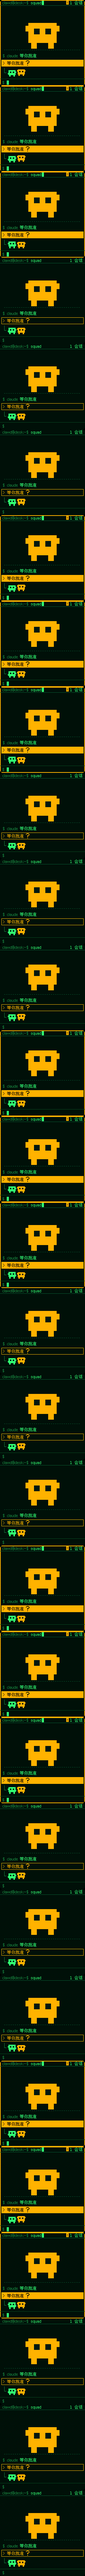
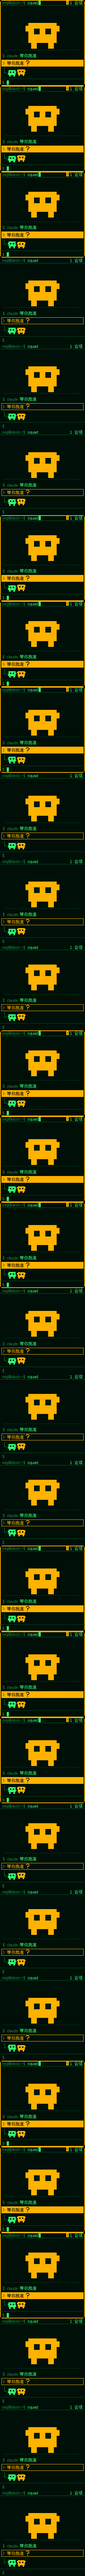
Rename the on-screen brand text to MIQIPET
The product is now called MiqiPet. The arcade theme's attract title and
the phosphor theme's idle header and prompt drew CLAWD / CLAWD-MOOD /
clawd@desk; they now draw MIQIPET and miqi@desk, re-centred on the 240px
screen. Previews for themes 3 and 4 and the README phosphor animation are
regenerated; theme 1 is untouched, so baseline.txt stays. NVS namespace,
BLE name and the default session name are internal and unchanged.

diff --git a/firmware/clawd_mood/theme_phosphor.cpp b/firmware/clawd_mood/theme_phosphor.cpp
@@ -170,10 +170,10 @@ static bool anyAlerting(Mood m) {
   return false;
 }
 
-// "clawd@desk:~$ squad", a cursor, and the session count; a blinking mark while anyone needs you
+// "miqi@desk:~$ squad", a cursor, and the session count; a blinking mark while anyone needs you
 static void statusLine(int16_t ox, unsigned long now) {
   int16_t x = ox + 7;
-  x += text("clawd@desk:~$ ", x, 12, MID);
+  x += text("miqi@desk:~$ ", x, 12, MID);
   x += text("squad", x, 12, HI);
   cursorBlock(x + 2, 12, HI, now);
   char n[12];
@@ -483,8 +483,8 @@ static void idleScreen(unsigned long now) {
   };
   int16_t r = typed(0);
   if (r >= 0) {
-    char head[12] = "CLAWD-MOOD";
-    head[min((int)(r / 12), 10)] = 0;
+    char head[12] = "MIQIPET";
+    head[min((int)(r / 12), 7)] = 0;
     small(head, x, 14, HI, 2);
     canvas.drawFastHLine(x, 34, min((int)r, DISP_W - 2 * x), LO);
   }

diff --git a/firmware/clawd_mood/theme_arcade.cpp b/firmware/clawd_mood/theme_arcade.cpp
@@ -566,8 +566,8 @@ static void page(uint8_t first, uint8_t count, int16_t, int16_t, unsigned long n
 // Attract mode: the title, a slow parade of the whole cast, a blinking call to plug an agent in
 static void attract(unsigned long now) {
   sky(now);
-  textAt("CLAWD", 77, 32, 3, NIGHT);
-  textAt("CLAWD", 75, 30, 3, MAGENTA);
+  textAt("MIQIPET", 60, 32, 3, NIGHT);
+  textAt("MIQIPET", 58, 30, 3, MAGENTA);
   textAt("INVADERS", 52, 62, 3, NIGHT);
   textAt("INVADERS", 50, 60, 3, CYAN);
   const uint8_t u = 3;
